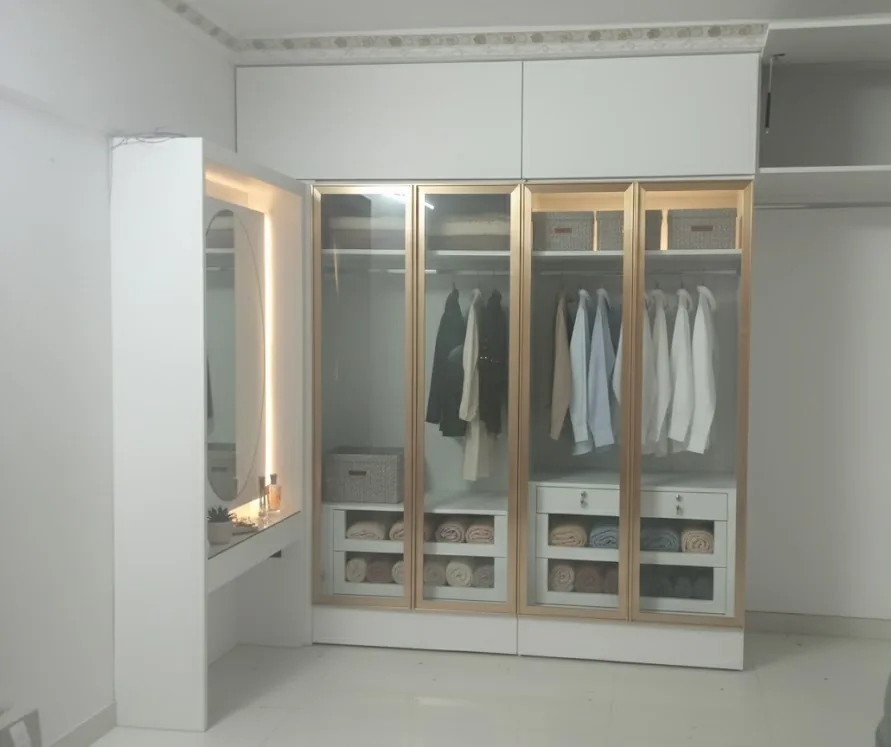
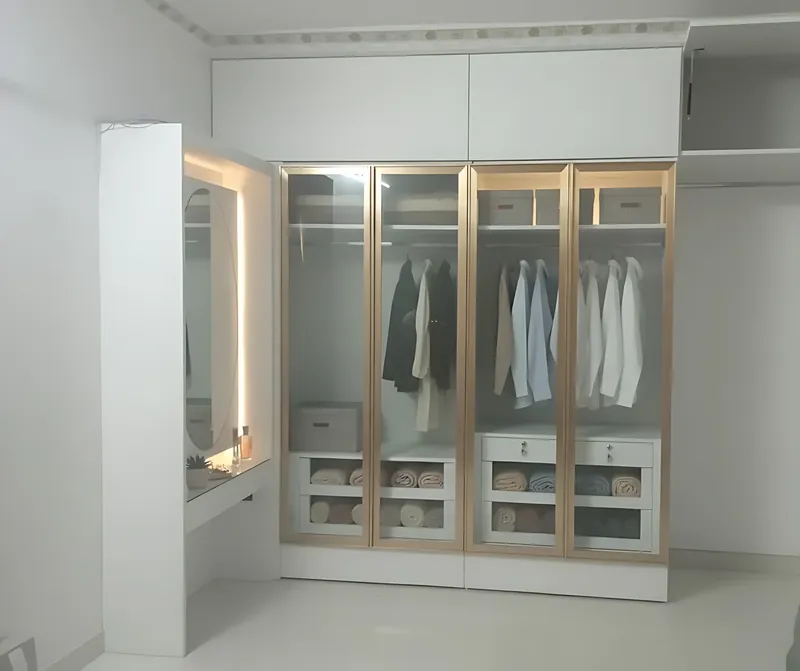
Gallery: upscaled wardrobe 1-4 and 11 photos
Claude-Session: https://claude.ai/code/session_01ELdwAKhBt2vqUy2cJdKuWJ

diff --git a/gallery.html b/gallery.html
@@ -165,7 +165,7 @@
           </div>
         </div>
         <div class="gx-mosaic" data-gx-mosaic aria-live="polite">
-          <figure class="gx-tile" data-cat="wardrobe"><img src="images/wardrobe1.webp" alt="Custom wardrobe by Wood Works Studio" width="747" height="951" loading="lazy" decoding="async" /><figcaption>Custom wardrobe</figcaption></figure>
+          <figure class="gx-tile" data-cat="wardrobe"><img src="images/wardrobe1.webp" alt="Custom wardrobe by Wood Works Studio" width="800" height="1018" loading="lazy" decoding="async" /><figcaption>Custom wardrobe</figcaption></figure>
           <figure class="gx-tile" data-cat="sofa"><img src="images/sofa1.webp" alt="Custom sofa by Wood Works Studio" width="1200" height="1094" loading="lazy" decoding="async" /><figcaption>Custom sofa</figcaption></figure>
           <figure class="gx-tile" data-cat="bed"><img src="images/bed1.webp" alt="Custom bed by Wood Works Studio" width="902" height="707" loading="lazy" decoding="async" /><figcaption>Custom bed</figcaption></figure>
           <figure class="gx-tile" data-cat="table"><img src="images/table1.webp" alt="Custom table by Wood Works Studio" width="1024" height="941" loading="lazy" decoding="async" /><figcaption>Custom table</figcaption></figure>
@@ -173,7 +173,7 @@
           <figure class="gx-tile" data-cat="door"><img src="images/door1.webp" alt="Wooden door by Wood Works Studio" width="448" height="915" loading="lazy" decoding="async" /><figcaption>Wooden door</figcaption></figure>
           <figure class="gx-tile" data-cat="tv"><img src="images/tv1.webp" alt="TV unit by Wood Works Studio" width="747" height="946" loading="lazy" decoding="async" /><figcaption>TV unit</figcaption></figure>
           <figure class="gx-tile" data-cat="vanity"><img src="images/vanity1.webp" alt="Bathroom vanity by Wood Works Studio" width="448" height="960" loading="lazy" decoding="async" /><figcaption>Bathroom vanity</figcaption></figure>
-          <figure class="gx-tile" data-cat="wardrobe"><img src="images/wardrobe2.webp" alt="Custom wardrobe by Wood Works Studio" width="951" height="739" loading="lazy" decoding="async" /><figcaption>Custom wardrobe</figcaption></figure>
+          <figure class="gx-tile" data-cat="wardrobe"><img src="images/wardrobe2.webp" alt="Custom wardrobe by Wood Works Studio" width="800" height="622" loading="lazy" decoding="async" /><figcaption>Custom wardrobe</figcaption></figure>
           <figure class="gx-tile" data-cat="sofa"><img src="images/sofa2.webp" alt="Custom sofa by Wood Works Studio" width="1024" height="930" loading="lazy" decoding="async" /><figcaption>Custom sofa</figcaption></figure>
           <figure class="gx-tile" data-cat="bed"><img src="images/bed2.webp" alt="Custom bed by Wood Works Studio" width="448" height="950" loading="lazy" decoding="async" /><figcaption>Custom bed</figcaption></figure>
           <figure class="gx-tile" data-cat="table"><img src="images/table2.webp" alt="Custom table by Wood Works Studio" width="1024" height="949" loading="lazy" decoding="async" /><figcaption>Custom table</figcaption></figure>
@@ -181,7 +181,7 @@
           <figure class="gx-tile" data-cat="door"><img src="images/door2.webp" alt="Wooden door by Wood Works Studio" width="448" height="834" loading="lazy" decoding="async" /><figcaption>Wooden door</figcaption></figure>
           <figure class="gx-tile" data-cat="tv"><img src="images/tv2.webp" alt="TV unit by Wood Works Studio" width="952" height="691" loading="lazy" decoding="async" /><figcaption>TV unit</figcaption></figure>
           <figure class="gx-tile" data-cat="vanity"><img src="images/vanity2.webp" alt="Bathroom vanity by Wood Works Studio" width="512" height="436" loading="lazy" decoding="async" /><figcaption>Bathroom vanity</figcaption></figure>
-          <figure class="gx-tile" data-cat="wardrobe"><img src="images/wardrobe3.webp" alt="Custom wardrobe by Wood Works Studio" width="714" height="747" loading="lazy" decoding="async" /><figcaption>Custom wardrobe</figcaption></figure>
+          <figure class="gx-tile" data-cat="wardrobe"><img src="images/wardrobe3.webp" alt="Custom wardrobe by Wood Works Studio" width="800" height="837" loading="lazy" decoding="async" /><figcaption>Custom wardrobe</figcaption></figure>
           <figure class="gx-tile" data-cat="sofa"><img src="images/sofa3.webp" alt="Custom sofa by Wood Works Studio" width="1024" height="946" loading="lazy" decoding="async" /><figcaption>Custom sofa</figcaption></figure>
           <figure class="gx-tile" data-cat="bed"><img src="images/bed3.webp" alt="Custom bed by Wood Works Studio" width="900" height="1126" loading="lazy" decoding="async" /><figcaption>Custom bed</figcaption></figure>
           <figure class="gx-tile" data-cat="table"><img src="images/table3.webp" alt="Custom table by Wood Works Studio" width="1024" height="702" loading="lazy" decoding="async" /><figcaption>Custom table</figcaption></figure>
@@ -189,7 +189,7 @@
           <figure class="gx-tile" data-cat="door"><img src="images/door3.webp" alt="Wooden door by Wood Works Studio" width="750" height="1397" loading="lazy" decoding="async" /><figcaption>Wooden door</figcaption></figure>
           <figure class="gx-tile" data-cat="tv"><img src="images/tv3.webp" alt="TV unit by Wood Works Studio" width="965" height="448" loading="lazy" decoding="async" /><figcaption>TV unit</figcaption></figure>
           <figure class="gx-tile" data-cat="vanity"><img src="images/vanity3.webp" alt="Bathroom vanity by Wood Works Studio" width="1024" height="941" loading="lazy" decoding="async" /><figcaption>Bathroom vanity</figcaption></figure>
-          <figure class="gx-tile" data-cat="wardrobe"><img src="images/wardrobe4.webp" alt="Custom wardrobe by Wood Works Studio" width="891" height="747" loading="lazy" decoding="async" /><figcaption>Custom wardrobe</figcaption></figure>
+          <figure class="gx-tile" data-cat="wardrobe"><img src="images/wardrobe4.webp" alt="Custom wardrobe by Wood Works Studio" width="800" height="671" loading="lazy" decoding="async" /><figcaption>Custom wardrobe</figcaption></figure>
           <figure class="gx-tile" data-cat="sofa"><img src="images/sofa4.webp" alt="Custom sofa by Wood Works Studio" width="1024" height="927" loading="lazy" decoding="async" /><figcaption>Custom sofa</figcaption></figure>
           <figure class="gx-tile" data-cat="bed"><img src="images/bed4.webp" alt="Custom bed by Wood Works Studio" width="888" height="747" loading="lazy" decoding="async" /><figcaption>Custom bed</figcaption></figure>
           <figure class="gx-tile" data-cat="table"><img src="images/table4.webp" alt="Custom table by Wood Works Studio" width="1024" height="933" loading="lazy" decoding="async" /><figcaption>Custom table</figcaption></figure>
@@ -213,7 +213,7 @@
           <figure class="gx-tile" data-cat="sofa"><img src="images/sofa9.webp" alt="Custom sofa by Wood Works Studio" width="1024" height="798" loading="lazy" decoding="async" /><figcaption>Custom sofa</figcaption></figure>
           <figure class="gx-tile" data-cat="wardrobe"><img src="images/wardrobe10.webp" alt="Custom wardrobe by Wood Works Studio" width="448" height="880" loading="lazy" decoding="async" /><figcaption>Custom wardrobe</figcaption></figure>
           <figure class="gx-tile" data-cat="sofa"><img src="images/sofa10.webp" alt="Custom sofa by Wood Works Studio" width="1024" height="826" loading="lazy" decoding="async" /><figcaption>Custom sofa</figcaption></figure>
-          <figure class="gx-tile" data-cat="wardrobe"><img src="images/wardrobe11.webp" alt="Custom wardrobe by Wood Works Studio" width="747" height="955" loading="lazy" decoding="async" /><figcaption>Custom wardrobe</figcaption></figure>
+          <figure class="gx-tile" data-cat="wardrobe"><img src="images/wardrobe11.webp" alt="Custom wardrobe by Wood Works Studio" width="800" height="1023" loading="lazy" decoding="async" /><figcaption>Custom wardrobe</figcaption></figure>
         </div>
         <div class="gx-more" data-gx-more><button type="button" class="wh-work-all">Show more pieces ↓</button></div>
       </section>
